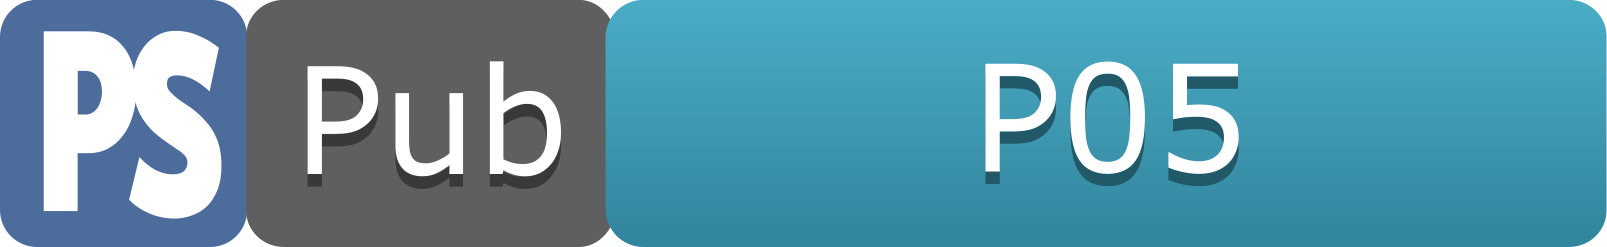
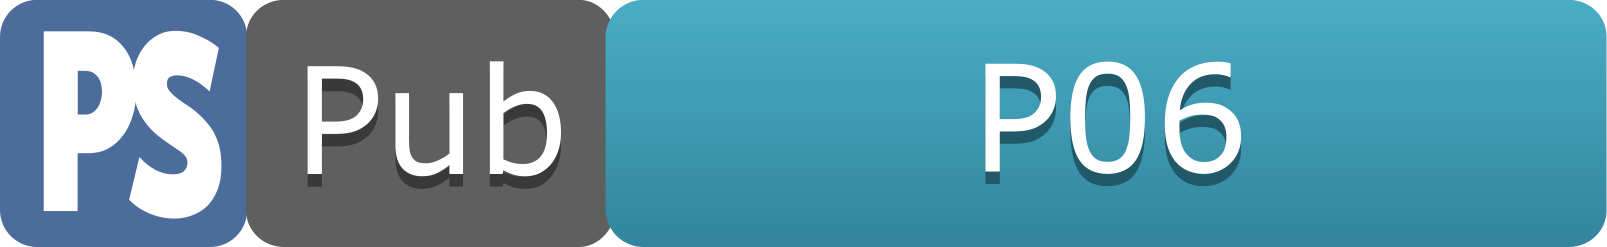
P06: Published
Published – Section 5 (Brackets)

README.md (revision change)

Web pages:
 - indexl.html (section 5 TOC added)
 - 05-00-brackets.html all files (revision change)
 - 05-01-brackets.html all files (revision change)
 - 05-02-brackets.html all files (revision change)
 - 05-03-brackets.html all files (revision change)
 - 05-04-brackets.html all files (revision change)
 - 98-00-blank.html (revision change)

Changed region(s): [[0.7156, 0.2551, 0.7778, 0.7652]]

diff --git a/5-2361-website-source/05-00-brackets.html b/5-2361-website-source/05-00-brackets.html
@@ -41,6 +41,8 @@ This is a complete summary of all software modifications.
 
 Date          Issue        Author         Reason for Modification
 *******************************************************************************
+08 Aug 2017   P06          M. Gledhill    Published
+
 08 Aug 2017   t-P05.05.P06 M. Gledhill    Section 5 TOC updated & proofread
 
 06 Aug 2017   d-P05.05.01  M. Gledhill    Page formally created (replacing
@@ -153,7 +155,7 @@ Date          Issue        Author         Reason for Modification
             <div class="rg-row title-row">                      <!-- Start of title row (section number & heading) -->
                 <div class="rg-col rg-span1-5">
                     <aside class="aside-left aside-left-rev" style="margin-top: 0.1rem;">            <!-- Start of left side bar -->
-                        <img src="11-resources/02-images/02-build-status/branch.svg" alt="Build info">                 <!-- Build status -->
+                        <img src="11-resources/02-images/02-build-status/build-badge.svg" alt="Build info">                 <!-- Build status -->
                     </aside>                                    <!-- End of right side bar   -->
                 </div>           <!-- End of Left column -->
                 <div class="rg-col rg-span3-5 title-centre">    <!-- Start of title (centre column) -->
@@ -162,7 +164,7 @@ Date          Issue        Author         Reason for Modification
                 </div>                                          <!-- End of title (centre column) -->
                 <div class="rg-col rg-span1-5">                 <!-- Start of right column   -->
                     <aside class="aside-right-rev">              <!-- Start of right side bar -->
-<!--REVISION-->         <p>Rev: 05-00&nbsp;&mdash;&nbsp;t-P05.05.P06</p>
+<!--REVISION-->         <p>Rev: 05-00&nbsp;&mdash;&nbsp;P06</p>
                     </aside>                                    <!-- End of right side bar   -->
                 </div>                                          <!-- End of right column     -->
             </div>                                              <!-- End of title row (section number & heading) -->

diff --git a/5-2361-website-source/05-01-brackets.html b/5-2361-website-source/05-01-brackets.html
@@ -41,6 +41,8 @@ This is a complete summary of all software modifications.
 
 Date          Issue        Author         Reason for Modification
 *******************************************************************************
+08 Aug 2017   P06          M. Gledhill    Published
+
 08 Aug 2017   t-P05.05.P06 M. Gledhill    Section 5 TOC updated & proofread
 
 06 Aug 2017   d-P05.05.01  M. Gledhill    Page created
@@ -148,7 +150,7 @@ Date          Issue        Author         Reason for Modification
             <div class="rg-row title-row">                      <!-- Start of title row (section number & heading) -->
                 <div class="rg-col rg-span1-5">
                     <aside class="aside-left aside-left-rev" style="margin-top: 0.1rem;">            <!-- Start of left side bar -->
-                        <img src="11-resources/02-images/02-build-status/branch.svg" alt="Build info">                 <!-- Build status -->
+                        <img src="11-resources/02-images/02-build-status/build-badge.svg" alt="Build info">                 <!-- Build status -->
                     </aside>                                    <!-- End of right side bar   -->
                 </div>           <!-- End of Left column -->
                 <div class="rg-col rg-span3-5 title-centre">    <!-- Start of title (centre column) -->
@@ -157,7 +159,7 @@ Date          Issue        Author         Reason for Modification
                 </div>                                          <!-- End of title (centre column) -->
                 <div class="rg-col rg-span1-5">                 <!-- Start of right column   -->
                     <aside class="aside-right-rev">              <!-- Start of right side bar -->
-<!--REVISION-->         <p>Rev: 05-01&nbsp;&mdash;&nbsp;t-P05.05.P06</p>
+<!--REVISION-->         <p>Rev: 05-01&nbsp;&mdash;&nbsp;P06</p>
                     </aside>                                    <!-- End of right side bar   -->
                 </div>                                          <!-- End of right column     -->
             </div>                                              <!-- End of title row (section number & heading) -->

diff --git a/5-2361-website-source/05-02-brackets.html b/5-2361-website-source/05-02-brackets.html
@@ -41,6 +41,8 @@ This is a complete summary of all software modifications.
 
 Date          Issue        Author         Reason for Modification
 *******************************************************************************
+08 Aug 2017   P06          M. Gledhill    Published
+
 08 Aug 2017   t-P05.05.P06 M. Gledhill    Section 5 TOC updated & proofread
 
 07 Aug 2017   d-P05.05.01  M. Gledhill    Page created
@@ -148,7 +150,7 @@ Date          Issue        Author         Reason for Modification
             <div class="rg-row title-row">                      <!-- Start of title row (section number & heading) -->
                 <div class="rg-col rg-span1-5">
                     <aside class="aside-left aside-left-rev" style="margin-top: 0.1rem;">            <!-- Start of left side bar -->
-                        <img src="11-resources/02-images/02-build-status/branch.svg" alt="Build info">                 <!-- Build status -->
+                        <img src="11-resources/02-images/02-build-status/build-badge.svg" alt="Build info">                 <!-- Build status -->
                     </aside>                                    <!-- End of right side bar   -->
                 </div>           <!-- End of Left column -->
                 <div class="rg-col rg-span3-5 title-centre">    <!-- Start of title (centre column) -->
@@ -157,7 +159,7 @@ Date          Issue        Author         Reason for Modification
                 </div>                                          <!-- End of title (centre column) -->
                 <div class="rg-col rg-span1-5">                 <!-- Start of right column   -->
                     <aside class="aside-right-rev">              <!-- Start of right side bar -->
-<!--REVISION-->         <p>Rev: 05-02&nbsp;&mdash;&nbsp;t-P05.05.P06</p>
+<!--REVISION-->         <p>Rev: 05-02&nbsp;&mdash;&nbsp;P06</p>
                     </aside>                                    <!-- End of right side bar   -->
                 </div>                                          <!-- End of right column     -->
             </div>                                              <!-- End of title row (section number & heading) -->

diff --git a/5-2361-website-source/05-03-brackets.html b/5-2361-website-source/05-03-brackets.html
@@ -41,6 +41,8 @@ This is a complete summary of all software modifications.
 
 Date          Issue        Author         Reason for Modification
 *******************************************************************************
+08 Aug 2017   P06          M. Gledhill    Published
+
 08 Aug 2017   t-P05.05.P06 M. Gledhill    Section 5 TOC updated & proofread
 
 07 Aug 2017   d-P05.05.01  M. Gledhill    Page created
@@ -148,7 +150,7 @@ Date          Issue        Author         Reason for Modification
             <div class="rg-row title-row">                      <!-- Start of title row (section number & heading) -->
                 <div class="rg-col rg-span1-5">
                     <aside class="aside-left aside-left-rev" style="margin-top: 0.1rem;">            <!-- Start of left side bar -->
-                        <img src="11-resources/02-images/02-build-status/branch.svg" alt="Build info">                 <!-- Build status -->
+                        <img src="11-resources/02-images/02-build-status/build-badge.svg" alt="Build info">                 <!-- Build status -->
                     </aside>                                    <!-- End of right side bar   -->
                 </div>           <!-- End of Left column -->
                 <div class="rg-col rg-span3-5 title-centre">    <!-- Start of title (centre column) -->
@@ -157,7 +159,7 @@ Date          Issue        Author         Reason for Modification
                 </div>                                          <!-- End of title (centre column) -->
                 <div class="rg-col rg-span1-5">                 <!-- Start of right column   -->
                     <aside class="aside-right-rev">              <!-- Start of right side bar -->
-<!--REVISION-->         <p>Rev: 05-03&nbsp;&mdash;&nbsp;t-P05.05.P06</p>
+<!--REVISION-->         <p>Rev: 05-03&nbsp;&mdash;&nbsp;P06</p>
                     </aside>                                    <!-- End of right side bar   -->
                 </div>                                          <!-- End of right column     -->
             </div>                                              <!-- End of title row (section number & heading) -->

diff --git a/5-2361-website-source/05-04-brackets.html b/5-2361-website-source/05-04-brackets.html
@@ -41,6 +41,8 @@ This is a complete summary of all software modifications.
 
 Date          Issue        Author         Reason for Modification
 *******************************************************************************
+08 Aug 2017   P06          M. Gledhill    Published
+
 08 Aug 2017   t-P05.05.P06 M. Gledhill    Section 5 TOC updated & proofread
 
 07 Aug 2017   d-P05.05.01  M. Gledhill    Page created
@@ -148,7 +150,7 @@ Date          Issue        Author         Reason for Modification
             <div class="rg-row title-row">                      <!-- Start of title row (section number & heading) -->
                 <div class="rg-col rg-span1-5">
                     <aside class="aside-left aside-left-rev" style="margin-top: 0.1rem;">            <!-- Start of left side bar -->
-                        <img src="11-resources/02-images/02-build-status/branch.svg" alt="Build info">                 <!-- Build status -->
+                        <img src="11-resources/02-images/02-build-status/build-badge.svg" alt="Build info">                 <!-- Build status -->
                     </aside>                                    <!-- End of right side bar   -->
                 </div>           <!-- End of Left column -->
                 <div class="rg-col rg-span3-5 title-centre">    <!-- Start of title (centre column) -->
@@ -157,7 +159,7 @@ Date          Issue        Author         Reason for Modification
                 </div>                                          <!-- End of title (centre column) -->
                 <div class="rg-col rg-span1-5">                 <!-- Start of right column   -->
                     <aside class="aside-right-rev">              <!-- Start of right side bar -->
-<!--REVISION-->         <p>Rev: 05-03&nbsp;&mdash;&nbsp;t-P05.05.P06</p>
+<!--REVISION-->         <p>Rev: 05-04&nbsp;&mdash;&nbsp;P06</p>
                     </aside>                                    <!-- End of right side bar   -->
                 </div>                                          <!-- End of right column     -->
             </div>                                              <!-- End of title row (section number & heading) -->

diff --git a/5-2361-website-source/index.html b/5-2361-website-source/index.html
@@ -41,6 +41,8 @@ This is a complete summary of all software modifications.
 
 Date          Issue        Author         Reason for Modification
 *******************************************************************************
+08 Aug 2017   P06          M. Gledhill    Published (Section 5 added)
+
 08 Aug 2017   t-P05.05.P06 M. Gledhill    Section 5 TOC added
 
 05 Aug 2017   P05          M. Gledhill    Published (Section 4 TOC added)
@@ -180,7 +182,7 @@ Date          Issue        Author         Reason for Modification
                 </div>                                          <!-- End of cover area (centre column -->
                 <div class="rg-col rg-span1-5">                 <!-- Start of right column  -->
                     <aside class="aside-right-rev" style="margin-top: 1.6rem">             <!-- Start of right side bar -->
-<!--REVISION-->         <p>Rev: 1002:&nbsp;&mdash;&nbsp;t-P05.05.P06</p>
+<!--REVISION-->         <p>Rev: 1002:&nbsp;&mdash;&nbsp;P06</p>
                     </aside>                                    <!-- End of right side bar   -->
                 </div>                                          <!-- End of right column  -->
             </div>                                              <!-- End of cover row -->

diff --git a/5-2361-website-source/98-00-blank.html b/5-2361-website-source/98-00-blank.html
@@ -41,6 +41,8 @@ This is a complete summary of all software modifications.
 
 Date          Issue        Author         Reason for Modification
 *******************************************************************************
+08 Aug 2017   P06          M. Gledhill    Published
+
 07 Aug 2017   d-P05.05.01  M. Gledhill    Inline span examples expanded to
                                           inline images and off page figures
 
@@ -181,7 +183,7 @@ Date          Issue        Author         Reason for Modification
                 </div>                                          <!-- End of title (centre column) -->
                 <div class="rg-col rg-span1-5">                 <!-- Start of right column   -->
                     <aside class="aside-right-rev">              <!-- Start of right side bar -->
-<!--REVISION-->         <p>Rev: 98-00&nbsp;&mdash;&nbsp;d-P05.05.01</p>
+<!--REVISION-->         <p>Rev: 98-00&nbsp;&mdash;&nbsp;P06</p>
                     </aside>                                    <!-- End of right side bar   -->
                 </div>                                          <!-- End of right column     -->
             </div>                                              <!-- End of title row (section number & heading) -->

diff --git a/5-2361-website-source/01-pages/05-00-brackets/05-local-js/05-00-scroll.js b/5-2361-website-source/01-pages/05-00-brackets/05-local-js/05-00-scroll.js
@@ -47,6 +47,8 @@ This is a complete summary of all software modifications.
 
 Date          Issue        Author         Reason for Modification
 -------------------------------------------------------------------------------
+08 Aug 2017   P06          M. Gledhill    Published
+
 06 Aug 2017   d-P05.05.01  M. Gledhill    Page created
 ---------------------------------------------------------------------------- */
 
@@ -66,7 +68,7 @@ $(document).ready(function() {                  /* START OF PAGE READY FUNCTION 
    **************************************************************************** */
 
     $('.aside-right-rev').append (
-        "<p>scroll.js&nbsp;&mdash;&nbsp;d-P05.05.01</p>" /* LOCAL JS REVISION NUMBER */
+        "<p>scroll.js&nbsp;&mdash;&nbsp;P06</p>" /* LOCAL JS REVISION NUMBER */
     );
 
 

diff --git a/5-2361-website-source/01-pages/05-01-brackets/05-local-js/05-01-scroll.js b/5-2361-website-source/01-pages/05-01-brackets/05-local-js/05-01-scroll.js
@@ -47,6 +47,8 @@ This is a complete summary of all software modifications.
 
 Date          Issue        Author         Reason for Modification
 -------------------------------------------------------------------------------
+08 Aug 2017   P06          M. Gledhill    Published
+
 06 Aug 2017   d-P05.05.01  M. Gledhill    Page created
 ---------------------------------------------------------------------------- */
 
@@ -66,7 +68,7 @@ $(document).ready(function() {                  /* START OF PAGE READY FUNCTION 
    **************************************************************************** */
 
     $('.aside-right-rev').append (
-        "<p>scroll.js&nbsp;&mdash;&nbsp;d-P05.05.01</p>" /* LOCAL JS REVISION NUMBER */
+        "<p>scroll.js&nbsp;&mdash;&nbsp;P06</p>" /* LOCAL JS REVISION NUMBER */
     );
 
 

diff --git a/5-2361-website-source/01-pages/05-02-brackets/05-local-js/05-02-scroll.js b/5-2361-website-source/01-pages/05-02-brackets/05-local-js/05-02-scroll.js
@@ -47,6 +47,8 @@ This is a complete summary of all software modifications.
 
 Date          Issue        Author         Reason for Modification
 -------------------------------------------------------------------------------
+08 Aug 2017   P06          M. Gledhill    Published
+
 07 Aug 2017   d-P05.05.01  M. Gledhill    Page created
 ---------------------------------------------------------------------------- */
 
@@ -66,7 +68,7 @@ $(document).ready(function() {                  /* START OF PAGE READY FUNCTION 
    **************************************************************************** */
 
     $('.aside-right-rev').append (
-        "<p>scroll.js&nbsp;&mdash;&nbsp;d-P05.05.01</p>" /* LOCAL JS REVISION NUMBER */
+        "<p>scroll.js&nbsp;&mdash;&nbsp;P06</p>" /* LOCAL JS REVISION NUMBER */
     );
 
 

diff --git a/5-2361-website-source/01-pages/05-03-brackets/05-local-js/05-03-scroll.js b/5-2361-website-source/01-pages/05-03-brackets/05-local-js/05-03-scroll.js
@@ -47,6 +47,8 @@ This is a complete summary of all software modifications.
 
 Date          Issue        Author         Reason for Modification
 -------------------------------------------------------------------------------
+08 Aug 2017   P06          M. Gledhill    Published
+
 07 Aug 2017   d-P05.05.01  M. Gledhill    Page created
 ---------------------------------------------------------------------------- */
 
@@ -66,7 +68,7 @@ $(document).ready(function() {                  /* START OF PAGE READY FUNCTION 
    **************************************************************************** */
 
     $('.aside-right-rev').append (
-        "<p>scroll.js&nbsp;&mdash;&nbsp;d-P05.05.01</p>" /* LOCAL JS REVISION NUMBER */
+        "<p>scroll.js&nbsp;&mdash;&nbsp;P06</p>" /* LOCAL JS REVISION NUMBER */
     );
 
 

diff --git a/5-2361-website-source/01-pages/05-04-brackets/05-local-js/05-04-scroll.js b/5-2361-website-source/01-pages/05-04-brackets/05-local-js/05-04-scroll.js
@@ -47,6 +47,8 @@ This is a complete summary of all software modifications.
 
 Date          Issue        Author         Reason for Modification
 -------------------------------------------------------------------------------
+08 Aug 2017   P06          M. Gledhill    Published
+
 07 Aug 2017   d-P05.05.01  M. Gledhill    Page created
 ---------------------------------------------------------------------------- */
 
@@ -66,7 +68,7 @@ $(document).ready(function() {                  /* START OF PAGE READY FUNCTION 
    **************************************************************************** */
 
     $('.aside-right-rev').append (
-        "<p>scroll.js&nbsp;&mdash;&nbsp;d-P05.05.01</p>" /* LOCAL JS REVISION NUMBER */
+        "<p>scroll.js&nbsp;&mdash;&nbsp;P06</p>" /* LOCAL JS REVISION NUMBER */
     );
 
 
